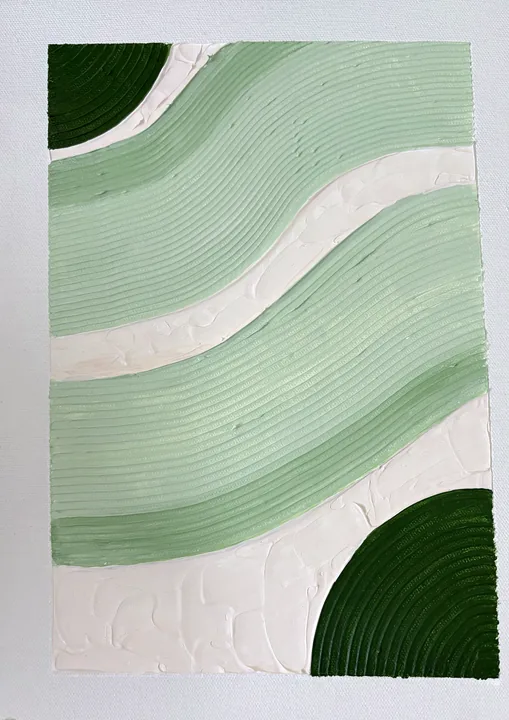
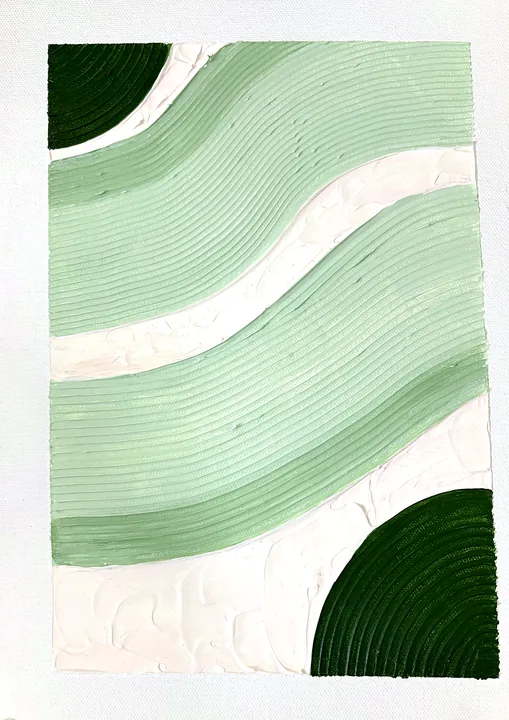
Refined front photos, room art grid, fix Vercel direct links
- Studio-cleaned front photos for pieces 2–8 (even light, neutral white, crisper detail)
- tools/refine_photo.py: the correction tool, Pillow only, no paint retouching
- Rooms and filtered results show a grid of every piece at true relative size
- vercel.json: drop cleanUrls, which broke the /index.html rewrites (direct links 404'd)

diff --git a/index.html b/index.html
@@ -375,27 +375,28 @@ class App extends React.Component {
           </div>
         </div>`)}</div>`; });
 
+    // Art grid: every piece in the room (or matching the filters), each linking to its page.
+    // Widths follow real canvas widths, so a 30 cm piece and a 60 cm piece read at true relative scale.
     let single=null;
     if (list.length) {
-      const i=Math.min(st.sIdx,list.length-1); const p=list[i]; const a=aspect(p.images.front);
-      const sPrev=()=>this.setState({sIdx:(i-1+list.length)%list.length}), sNext=()=>this.setState({sIdx:(i+1)%list.length});
-      single=html`<div style="display:flex;flex-direction:column;align-items:center;gap:36px;padding-top:20px">
-        ${eyebrow((active?'Your selection':RM.name)+' · '+String(i+1).padStart(2,'0')+' / '+String(list.length).padStart(2,'0'))}
-        <div style="display:flex;align-items:center;justify-content:center;gap:clamp(12px,4vw,56px);width:100%">
-          ${roundBtn(sPrev,'←',m?44:56)}
-          <div style="width:min(${(a*58).toFixed(1)}vh, ${m?'56vw':'64vw'})">${this.link('/art/'+p.slug,photo(p,{az:220,eager:true}))}</div>
-          ${roundBtn(sNext,'→',m?44:56)}
+      const widthOf=p=>p.size?(p.size.w||p.size.d||30):30;
+      const maxW=Math.max(...list.map(widthOf));
+      single=html`<div style="display:flex;flex-direction:column;gap:40px;padding-top:20px">
+        <div style="display:flex;flex-direction:column;align-items:center;gap:14px;text-align:center">
+          ${eyebrow(active?'Your selection':RM.name)}
+          ${!active && RM.sub && html`<div style="font-family:'Instrument Serif',serif;font-style:italic;font-size:22px;color:#5A5149">${RM.sub}</div>`}
+          ${!active && RM.text && html`<p style="margin:0;max-width:520px;font-size:15px;line-height:1.65;color:#5A5149;text-wrap:pretty">${RM.text}</p>`}
         </div>
-        <div style="display:flex;flex-direction:column;align-items:center;gap:10px;text-align:center">
-          <div style="font-family:'Instrument Serif',serif;font-size:40px;letter-spacing:.02em">${p.title}</div>
-          <div style="font-family:'Instrument Serif',serif;font-style:italic;font-size:19px;color:#5A5149">${ARTIST}, ${p.year} · ${dims(p)}</div>
-          <p style="margin:6px 0 0;max-width:540px;font-size:15px;line-height:1.65;color:#5A5149;text-wrap:pretty">${p.concept}</p>
-          <div style="font-size:11px;letter-spacing:.24em;text-transform:uppercase;color:#7A7067">${[SHAPE_LABEL[p.shape],...(p.tags||[]).slice(0,2).map(tagLabel)].filter(Boolean).join(' · ')}</div>
-          ${STATUS_LABEL[p.status] && html`<div style="font-size:12px;letter-spacing:.2em;text-transform:uppercase;color:#8E5A55">${STATUS_LABEL[p.status]}</div>`}
-          <span style="margin-top:14px">${this.link('/art/'+p.slug,'View work →','font-size:12px;letter-spacing:.36em;text-transform:uppercase;color:#7A7067','hov-ink')}</span>
-        </div>
-        <div style="display:flex;gap:12px;flex-wrap:wrap;justify-content:center">
-          ${list.map((b,j)=>html`<span key=${b.slug} onClick=${()=>this.setState({sIdx:j})} title=${b.title} style="width:20px;height:20px;border-radius:50%;background:${(b.palette&&b.palette[1]||b.palette&&b.palette[0]||{hex:'#E9E1D5'}).hex};cursor:pointer;box-shadow:${j===i?`0 0 0 2px ${PAPER}, 0 0 0 3.5px ${INK}`:'none'}"></span>`)}
+        <div style="display:grid;grid-template-columns:repeat(auto-fill,minmax(${m?'140px':'240px'},1fr));gap:${m?'40px 20px':'64px 48px'};align-items:end">
+          ${list.map(p=>html`<div key=${p.slug} className="lift">${this.link('/art/'+p.slug,html`
+            <div style="display:flex;flex-direction:column;align-items:center;gap:${m?14:20}px">
+              <div style="width:${(widthOf(p)/maxW*86).toFixed(1)}%">${photo(p,{az:230,small:true})}</div>
+              <div style="display:flex;flex-direction:column;align-items:center;gap:5px;text-align:center">
+                <div style="font-size:${m?11:13}px;letter-spacing:.24em;text-transform:uppercase">${p.title}</div>
+                <div style="font-family:'Instrument Serif',serif;font-style:italic;font-size:${m?16:18}px;color:#5A5149">${dims(p)}</div>
+                ${STATUS_LABEL[p.status] && html`<div style="font-size:11px;letter-spacing:.2em;text-transform:uppercase;color:#8E5A55">${STATUS_LABEL[p.status]}</div>`}
+              </div>
+            </div>`)}</div>`)}
         </div>
       </div>`;
     }

diff --git a/tools/refine_photo.py b/tools/refine_photo.py
@@ -1,0 +1,127 @@
+#!/usr/bin/env python3
+"""Studio-clean a front-on artwork photo without changing the artwork itself.
+
+Usage: python3 tools/refine_photo.py <in> <out> --bg x,y [--target R,G,B] [--tol N]
+                                     [--crop l,t,r,b] [--color 1.06] [--contrast 1.04]
+
+Only global, photographic corrections (no retouching of the paint):
+  1. Even lighting: fits a smooth surface to the plain ground (the colour at --bg within
+     --tol, or any near-neutral pixel with --neutral) and divides it out, removing falloff.
+  2. White balance: the ground is mapped to --target (default a warm studio white).
+  3. Gentle colour/contrast lift and a fine unsharp mask for crisp knife marks.
+Pillow only (no numpy).
+"""
+import argparse
+from PIL import Image, ImageEnhance, ImageFilter, ImageMath, ImageOps
+
+GRID = 96  # sample grid for the lighting fit
+
+
+def solve(A, b):
+    # Gaussian elimination for the small normal-equation system.
+    n = len(A)
+    M = [row[:] + [b[i]] for i, row in enumerate(A)]
+    for c in range(n):
+        p = max(range(c, n), key=lambda r: abs(M[r][c]))
+        M[c], M[p] = M[p], M[c]
+        for r in range(n):
+            if r != c and M[c][c]:
+                f = M[r][c] / M[c][c]
+                M[r] = [x - f * y for x, y in zip(M[r], M[c])]
+    return [M[i][n] / M[i][i] for i in range(n)]
+
+
+def terms(x, y):
+    return [1, x, y, x * x, y * y, x * y, x * x * x, y * y * y, x * x * y, x * y * y]
+
+
+def fit_lighting(im, ref, tol, neutral=None):
+    w, h = im.size
+    gw = GRID; gh = max(8, round(GRID * h / w))
+    small = im.resize((gw, gh), Image.BOX)
+    px = small.load()
+    pts = []
+    # In neutral mode, judge "white" after removing the photo's own colour cast (taken from --bg),
+    # scaled by brightness so shadowed canvas still counts.
+    rm = sum(ref) / 3
+    cast = [ref[k] - rm for k in range(3)]
+    for j in range(gh):
+        for i in range(gw):
+            c = px[i, j]
+            if neutral:
+                L = sum(c) / 3
+                d = [c[k] - cast[k] * L / rm for k in range(3)]
+                ok = max(d) - min(d) < neutral and L > 90
+            else:
+                ok = sum(abs(c[k] - ref[k]) for k in range(3)) < tol
+            if ok:
+                pts.append((i / (gw - 1), j / (gh - 1), c))
+    if len(pts) < 30:
+        raise SystemExit(f'only {len(pts)} ground samples; raise --tol or move --bg')
+    fits = []
+    for k in range(3):
+        n = len(terms(0, 0))
+        A = [[0.0] * n for _ in range(n)]; b = [0.0] * n
+        for x, y, c in pts:
+            t = terms(x, y)
+            for r in range(n):
+                b[r] += t[r] * c[k]
+                for s in range(n):
+                    A[r][s] += t[r] * t[s]
+        fits.append(solve(A, b))
+    return fits, len(pts), (gw, gh)
+
+
+def gain_maps(size, fits, target, grid):
+    w, h = size; gw, gh = grid
+    maps = []
+    for k in range(3):
+        g = Image.new('F', (gw, gh))
+        gp = g.load()
+        for j in range(gh):
+            for i in range(gw):
+                v = sum(a * t for a, t in zip(fits[k], terms(i / (gw - 1), j / (gh - 1))))
+                gp[i, j] = target[k] / max(v, 1.0)
+        maps.append(g.resize((w, h), Image.BICUBIC))
+    return maps
+
+
+def main():
+    ap = argparse.ArgumentParser()
+    ap.add_argument('src'); ap.add_argument('out')
+    ap.add_argument('--bg', required=True, help='x,y of a plain ground pixel (in the cropped image)')
+    ap.add_argument('--target', default='246,244,239')
+    ap.add_argument('--tol', type=int, default=36)
+    ap.add_argument('--neutral', type=int, help='use every near-grey pixel with (max-min) below this as ground (white canvases)')
+    ap.add_argument('--global', dest='glob', action='store_true', help='white balance only: one gain for the whole image (for photos with hard light patches)')
+    ap.add_argument('--crop')
+    ap.add_argument('--color', type=float, default=1.06)
+    ap.add_argument('--contrast', type=float, default=1.04)
+    a = ap.parse_args()
+
+    im = ImageOps.exif_transpose(Image.open(a.src)).convert('RGB')
+    if a.crop:
+        im = im.crop(tuple(int(v) for v in a.crop.split(',')))
+    bx, by = (int(v) for v in a.bg.split(','))
+    ref = im.resize((im.width // 8, im.height // 8), Image.BOX).getpixel((bx // 8, by // 8))
+    target = [int(v) for v in a.target.split(',')]
+    if a.glob:
+        n = 1
+        maps = [Image.new('F', im.size, target[k] / max(ref[k], 1)) for k in range(3)]
+    else:
+        fits, n, grid = fit_lighting(im, ref, a.tol, a.neutral)
+        maps = gain_maps(im.size, fits, target, grid)
+    bands = []
+    for band, g in zip(im.split(), maps):
+        f = ImageMath.lambda_eval(lambda e: e['min'](e['float'](e['a']) * e['b'], 255.0), a=band, b=g)
+        bands.append(f.convert('L'))
+    out = Image.merge('RGB', bands)
+    out = ImageEnhance.Color(out).enhance(a.color)
+    out = ImageEnhance.Contrast(out).enhance(a.contrast)
+    out = out.filter(ImageFilter.UnsharpMask(radius=2, percent=45, threshold=3))
+    out.save(a.out, quality=95) if a.out.lower().endswith(('.jpg', '.jpeg')) else out.save(a.out)
+    print(f'ground ref {ref}, {n} samples, saved {out.size} → {a.out}')
+
+
+if __name__ == '__main__':
+    main()

diff --git a/CLAUDE.md b/CLAUDE.md
@@ -8,6 +8,7 @@ Single-page portfolio for **Cozy Texture Art**, built from the "Ira Mehra Textur
 - `data/artworks.js` — **the catalogue**: `ARTWORKS`, `ART_ROOMS`, `TAGS`, `FAMILIES`, `SUITS`, plus a commented TEMPLATE entry. Adding a piece never touches `index.html`.
 - `images/art/<slug>/` — `front.webp` (1600px), `front-sm.webp` (720px, grids/hero/thumbs), `room.webp` (1600px).
 - `tools/add_art.py <slug> <front> <room>` — resizes and strips EXIF into `images/art/<slug>/`, prints the `images` block and a suggested palette. Needs Pillow; run with plain `python3` (not `-I`, which hides the user site-packages Pillow lives in). HEIC goes through `sips` first.
+- `tools/refine_photo.py <in> <out> --bg x,y ...` — studio-cleans a front photo before `add_art.py`: evens out lighting (fits a smooth surface to the plain ground), neutral white balance, gentle colour/contrast and sharpening. Never retouches the paint. White canvas: `--neutral 16 --target 247,247,246 --color 1.03 --contrast 1.05`. Coloured ground: `--tol 45 --target <brighter ground>`. Hard sun/shadow stripes: `--global` (white balance only). `--crop` to cut wall out of frame. Approved look: 2026-10-18.
 - `tools/dev_server.py [port] [dir]` — local server with the same fallback as Vercel (unknown paths → `index.html`).
 - `vercel.json` — hosting is Vercel; rewrites `/art/:slug`, `/collection`, `/collection/:room`, `/about` to `index.html`.
 - `vendor/`, `fonts/` — React 18.3.1; Instrument Serif + Jost woff2.
@@ -20,8 +21,8 @@ Single-page portfolio for **Cozy Texture Art**, built from the "Ira Mehra Textur
 | Path | Screen |
 |---|---|
 | `/` | Home |
-| `/collection` (`?tag=<tag>`, `?q=`) | Filters + art rooms row; with a filter, the exhibit of matching pieces |
-| `/collection/<room-slug>` | Exhibit of one art room |
+| `/collection` (`?tag=<tag>`, `?q=`) | Filters + art rooms row; with a filter, a grid of matching pieces |
+| `/collection/<room-slug>` | Art grid of one room: every piece, widths at true relative canvas size, each linking to its page |
 | `/art/<slug>` | Piece page (the template) |
 | `/about` | About + creator note |
 | anything else | "This wall is empty." not-found screen |
@@ -32,6 +33,7 @@ Links are real `<a href>` (shareable, open in new tab) routed in-page by `link()
 - **Piece** fields (see TEMPLATE in `data/artworks.js`): `slug`, `title`, `year`, `concept` (2–3 lines: what it is, how it was made), `holds` (one brief note on what it represents → "What it holds"), `size` (`{w,h}` cm or `{d}`), optional `depth`, `medium` (default: acrylic colour mixed into texture paste, on canvas), `shape`, `family`, `palette`, `tags`, `suits`, `status`, `featured`, `images`.
 - **Tags** describe what a piece is (subject, colour story, mood). Every tag must exist in `TAGS`. Add new tags there when a piece needs one.
 - **Art rooms are tag collections**: a piece appears in every room sharing at least one tag, so one piece can hang in several rooms. Rooms with no pieces are hidden.
+- **Rooms show a grid, not the one-at-a-time exhibit** (user decision 2026-10-18: "art rooms > art grid > art page"). This overrides §4's "never a product grid"; keep the grid gallery-like: caption stacks, bottom-aligned, no badges.
 - **No prices** anywhere (decision 2026-10-18). Enquiry is the only path; sold pieces switch the CTA to a commission.
 - **Placeholders removed**: no procedural artworks in the catalogue. Procedural SVG (`DECOR`, `artSvg`) survives only as illustration: the texture-vs-print slider, the four process steps, and the home hero. The home hero always keeps these drawn textures; don't swap in catalogue photos.
 - **Piece page views** are photo-based: Front, In a room, Close-up (the front photo at 2.6× following the pointer). Photos can't be relit, so raking light, 3D turn and studio film from the reference are not used.
@@ -43,7 +45,7 @@ The user sends one art room at a time, two images per piece: **front** and **in 
 2. Name it per §10 (2–3 words; place, time or feeling + material/colour; "No." for series). Check the name isn't already used.
 3. Write `concept` (2–3 lines, materials and making, honest) and `holds` (one sentence on what it represents), in the §8 voice.
 4. Pick `shape`, `family`, 3–4 `palette` pigments (use the tool's hex suggestions, name each with one lower-case food/earth/flower word), `tags` from `TAGS` (add new ones if needed), `suits`.
-5. Slug = title in lower-case kebab case. Run `tools/add_art.py`, fill the TEMPLATE, append to `ARTWORKS`.
+5. Slug = title in lower-case kebab case. Refine the front photo with `tools/refine_photo.py` (check before/after), then run `tools/add_art.py` on the refined front + original room image, fill the TEMPLATE, append to `ARTWORKS`.
 6. Make sure the room the user named exists in `ART_ROOMS` with tags that pull these pieces in.
 7. Preview the piece pages, the room and the home page; then commit and push.
 
